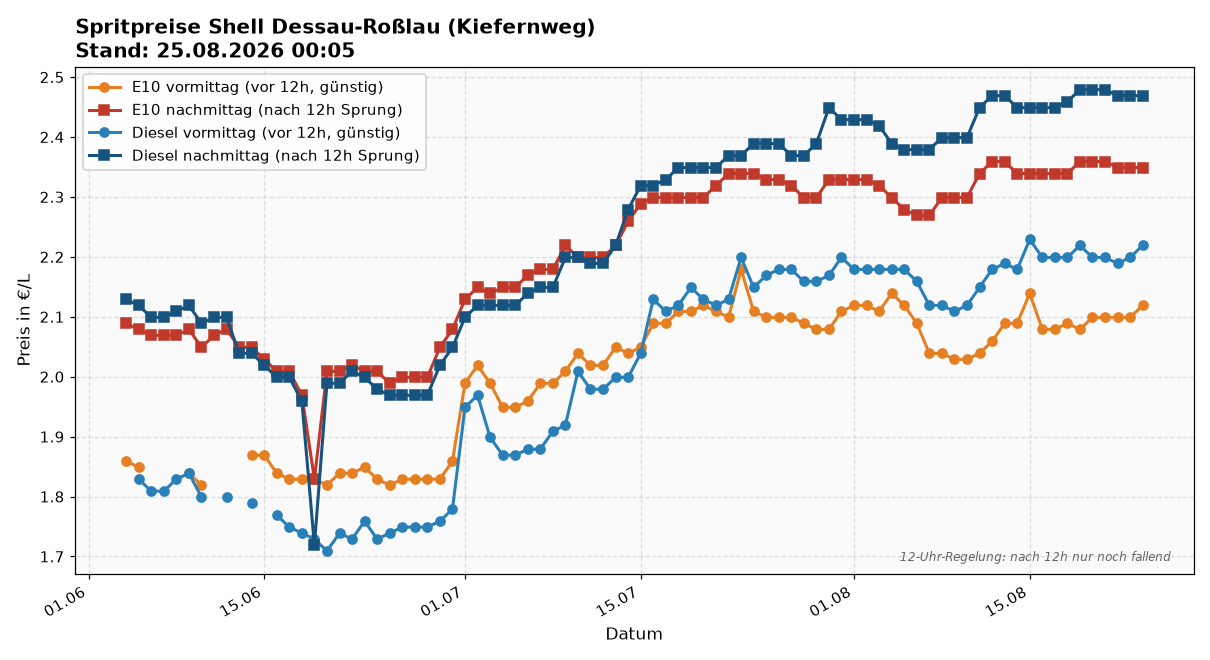
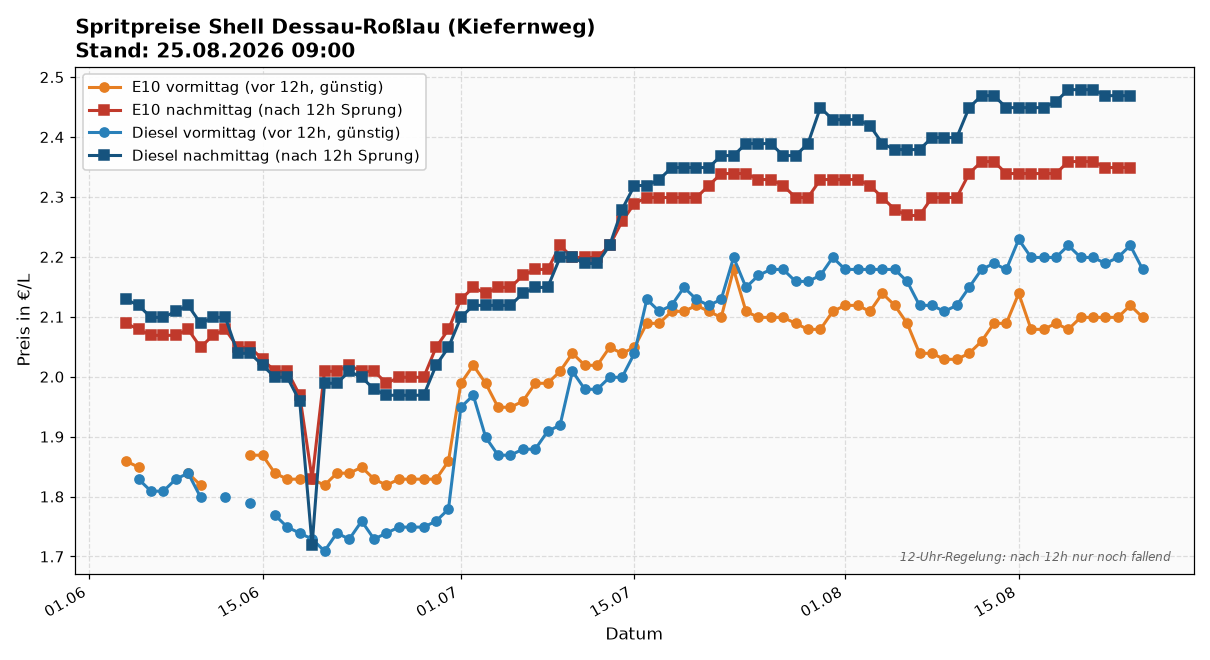
update: spritpreise 2026-08-25 09:00

diff --git a/index.html b/index.html
@@ -19,17 +19,17 @@
 </head>
 <body>
 <h1>🛢 Spritpreise Shell Dessau-Roßlau (Kiefernweg)</h1>
-<div class="sub">Source: Tankerkönig · Stand: 25.08.2026 00:05</div>
+<div class="sub">Source: Tankerkönig · Stand: 25.08.2026 09:00</div>
 
 <img src="latest.png" alt="Preisverlauf">
 
 <div class="latest">
   <strong>Heute (2026-08-25)</strong>
-  <div style="color:#888;font-style:italic;margin-bottom:0.5em;">Noch keine Messung heute — cron läuft 09:00 + 12:10.</div>
+  
   <table>
-    <tr><td>E10 vormittag</td><td class="price">— €</td></tr>
+    <tr><td>E10 vormittag</td><td class="price">2.099 €</td></tr>
     <tr><td>E10 nachmittag</td><td class="price">— €</td></tr>
-    <tr><td>Diesel vormittag</td><td class="price">— €</td></tr>
+    <tr><td>Diesel vormittag</td><td class="price">2.179 €</td></tr>
     <tr><td>Diesel nachmittag</td><td class="price">— €</td></tr>
   </table>
 </div>
